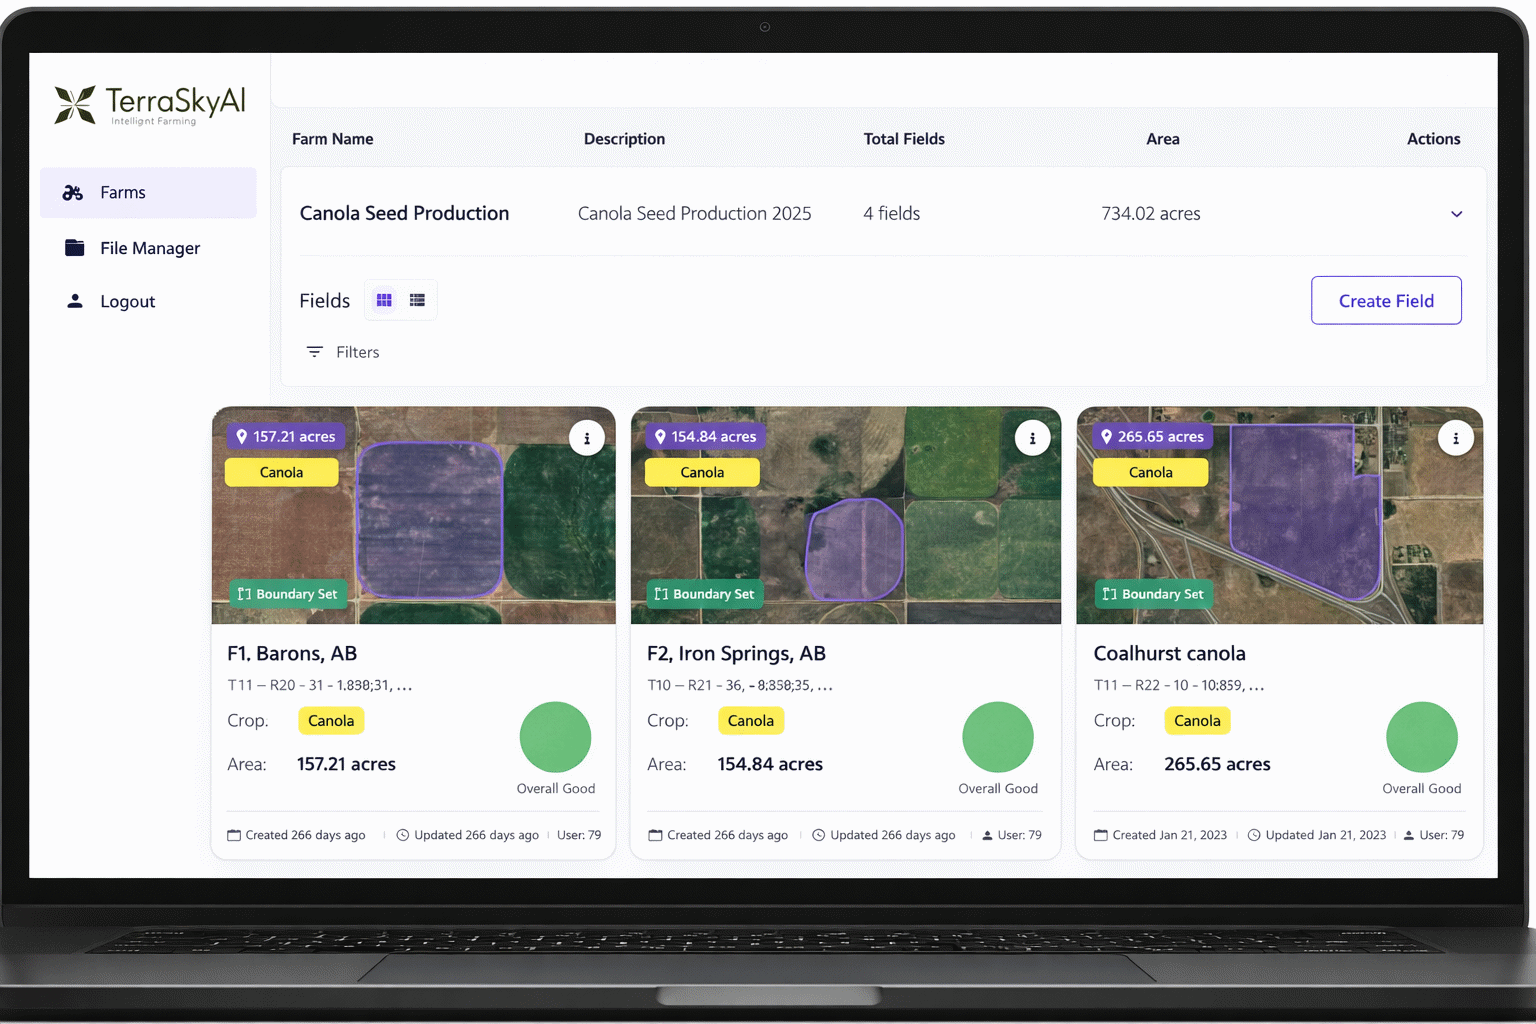
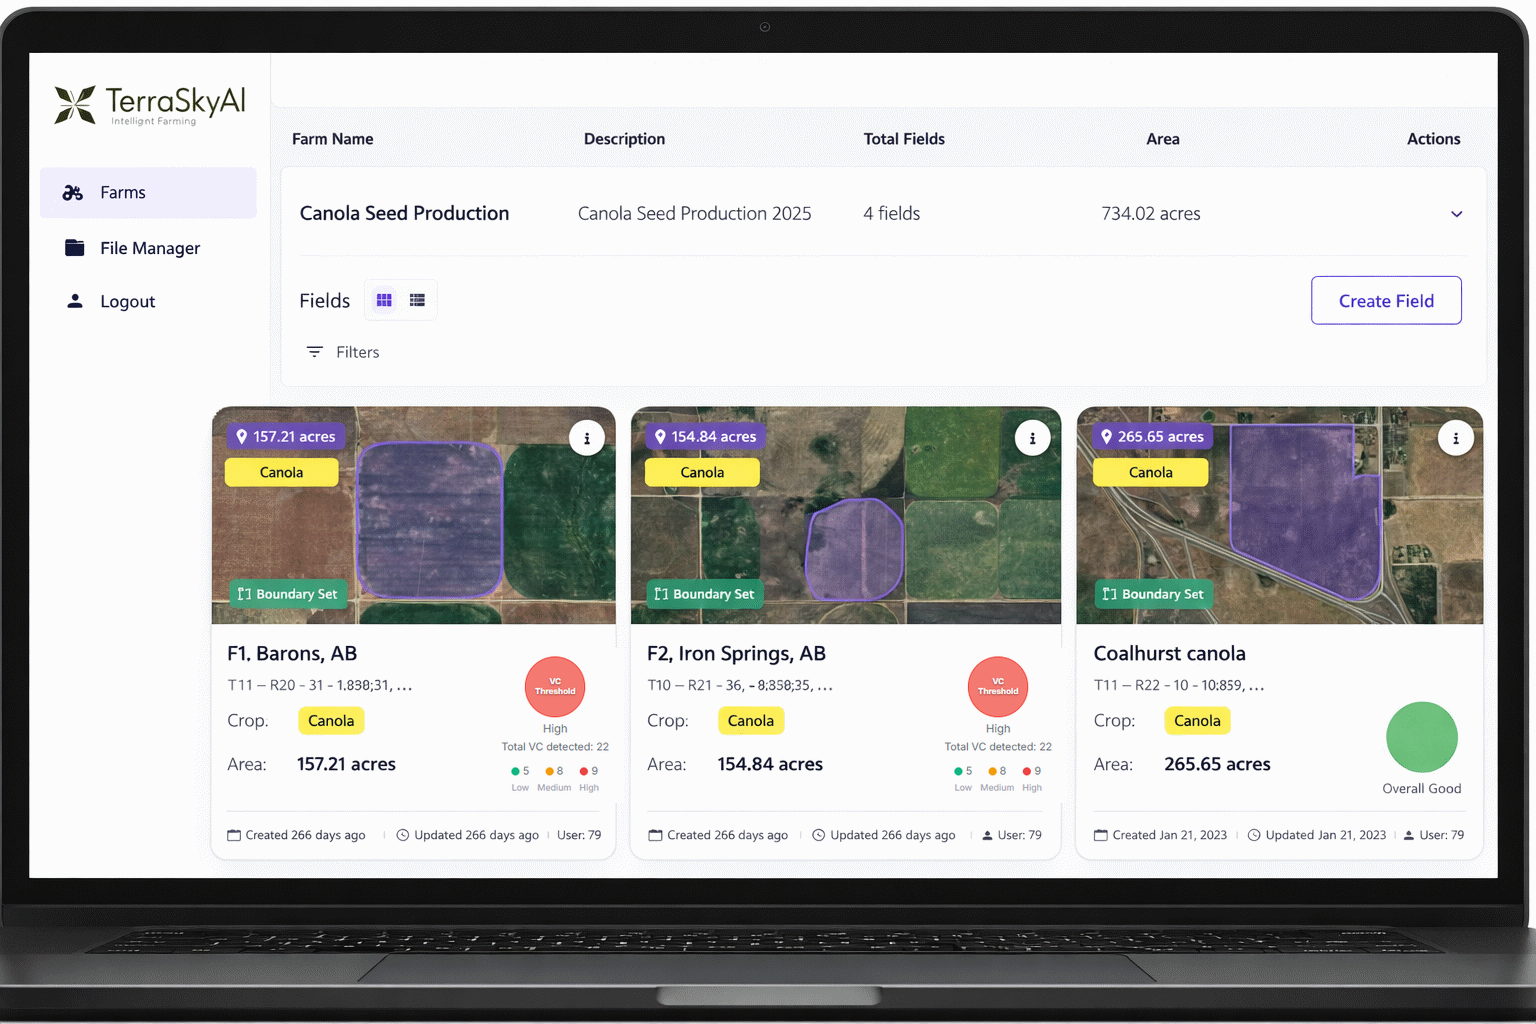
changes

Changed region(s): [[0.3125, 0.625, 0.4062, 0.7812], [0.625, 0.625, 0.6875, 0.7812]]

diff --git a/app/careers/page.tsx b/app/careers/page.tsx
@@ -58,7 +58,7 @@ function filterDescription(description: string): string {
   return filtered.trim();
 }
 
-const API_BASE_URL = process.env.NEXT_PUBLIC_API_BASE_URL ?? 'https://admin.terraskyai.com';
+const API_BASE_URL = process.env.NEXT_PUBLIC_API_BASE_URL ?? 'https://backend.terraskyai.com';
 
 function formatCurrencyAmount(value: unknown, currency: string): string | undefined {
   const n = typeof value === 'number' ? value : typeof value === 'string' ? Number(value) : NaN;
@@ -184,7 +184,7 @@ async function fetchCareerPostsList(): Promise<CareerPostSummary[]> {
   const res = await fetch(`${API_BASE_URL}/api/career/posts/`, { cache: 'no-store' });
   if (!res.ok) throw new Error(`Failed to load jobs (${res.status})`);
   const data = await res.json();
-  const list = Array.isArray(data) ? data : (data?.results ?? data?.data ?? data?.items ?? []);
+  const list = Array.isArray(data) ? data : (data?.result ?? data?.results ?? data?.data ?? data?.items ?? []);
   if (!Array.isArray(list)) return [];
   return list.map(normalizeCareerPostSummary).filter((p) => p.id !== '');
 }
@@ -282,20 +282,34 @@ export default function CareersPage() {
     }
   };
 
-  const handleSubmit = async (e: React.FormEvent) => {
-    e.preventDefault();
-    setSubmitError(null);
-    setSubmitSuccess(null);
-    if (!formData.cv) {
-      setSubmitError('Please upload your CV/Resume.');
-      return;
-    }
-    const yesNoToBoolString = (v: '' | 'yes' | 'no') => (v === 'yes' ? 'true' : 'false');
-    try {
-      setSubmitLoading(true);
-      const payload = new FormData();
-      if (formData.position && formData.position !== 'general')
-        payload.append('post', formData.position);
+const handleSubmit = async (e: React.FormEvent) => {
+  e.preventDefault();
+  setSubmitError(null);
+  setSubmitSuccess(null);
+
+  if (!formData.cv) {
+    setSubmitError('Please upload your CV/Resume.');
+    return;
+  }
+
+  // Quick fix: General Application needs at least one real position to map to
+  const postValue = formData.position === 'general'
+    ? String(positions[0]?.id ?? '')
+    : formData.position;
+
+  if (!postValue) {
+    setSubmitError(
+      'General applications are currently unavailable — no open positions to apply through. Please select a specific position instead.'
+    );
+    return;
+  }
+
+  const yesNoToBoolString = (v: '' | 'yes' | 'no') => (v === 'yes' ? 'true' : 'false');
+  try {
+    setSubmitLoading(true);
+    const payload = new FormData();
+    payload.append('post', postValue);
+    // ... rest same as before
       payload.append('name', formData.name);
       payload.append('email', formData.email);
       payload.append('phone', formData.phone);
@@ -306,6 +320,7 @@ export default function CareersPage() {
       );
       payload.append('valid_drivers_license', yesNoToBoolString(formData.validDriversLicense));
       payload.append('drone_pilot_license', yesNoToBoolString(formData.dronePilotLicense));
+      payload.append('access_to_own_vehicle', 'false');
       payload.append('cv', formData.cv);
       const res = await fetch(`${API_BASE_URL}/api/career/applications/`, {
         method: 'POST',
@@ -1350,8 +1365,10 @@ export default function CareersPage() {
                         {pos.title ?? String(pos.id)}
                       </option>
                     ))}
-                    <option value="general">General Application</option>
-                  </select>
+                    {positionsForRender.length > 0 && (
+    <option value="general">General Application</option>
+  )}
+</select>
                 </div>
 
                 {/* Radio questions */}

diff --git a/app/products/skysight/page.tsx b/app/products/skysight/page.tsx
@@ -231,7 +231,7 @@ export default function SkySightPage() {
       </section>
 
       {/* Portal Features */}
-      <section
+      {/* <section
         className="ss-dot-bg"
         style={{
           background: '#FDFCF5',
@@ -304,7 +304,7 @@ export default function SkySightPage() {
             ))}
           </div>
         </div>
-      </section>
+      </section> */}
 
       {/* Dashboard Preview */}
       <section style={{ background: '#fff', padding: '80px 24px' }}>

diff --git a/app/contact/page.tsx b/app/contact/page.tsx
@@ -2,7 +2,7 @@
 
 import { FormEvent, useState } from 'react';
 
-const API_BASE_URL = process.env.NEXT_PUBLIC_API_BASE_URL ?? 'https://admin.terraskyai.com';
+const API_BASE_URL = process.env.NEXT_PUBLIC_API_BASE_URL ?? 'https://backend.terraskyai.com';
 
 type QueryCreatedResponse = {
   id: string;
